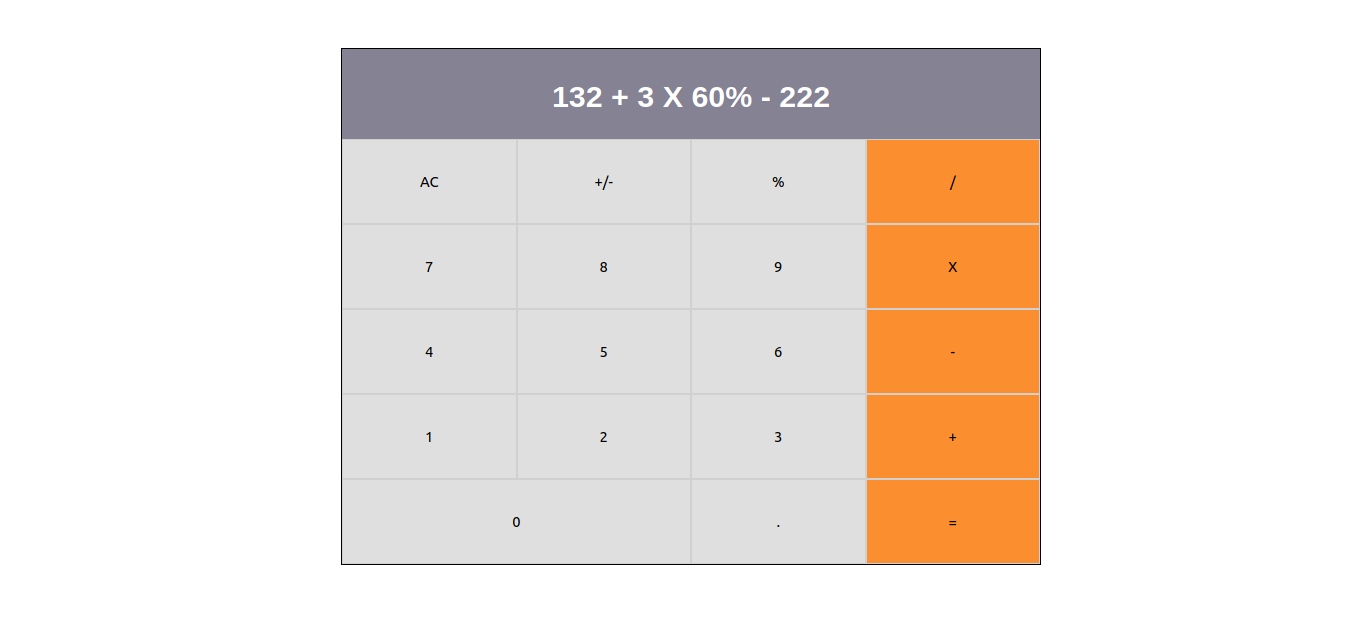
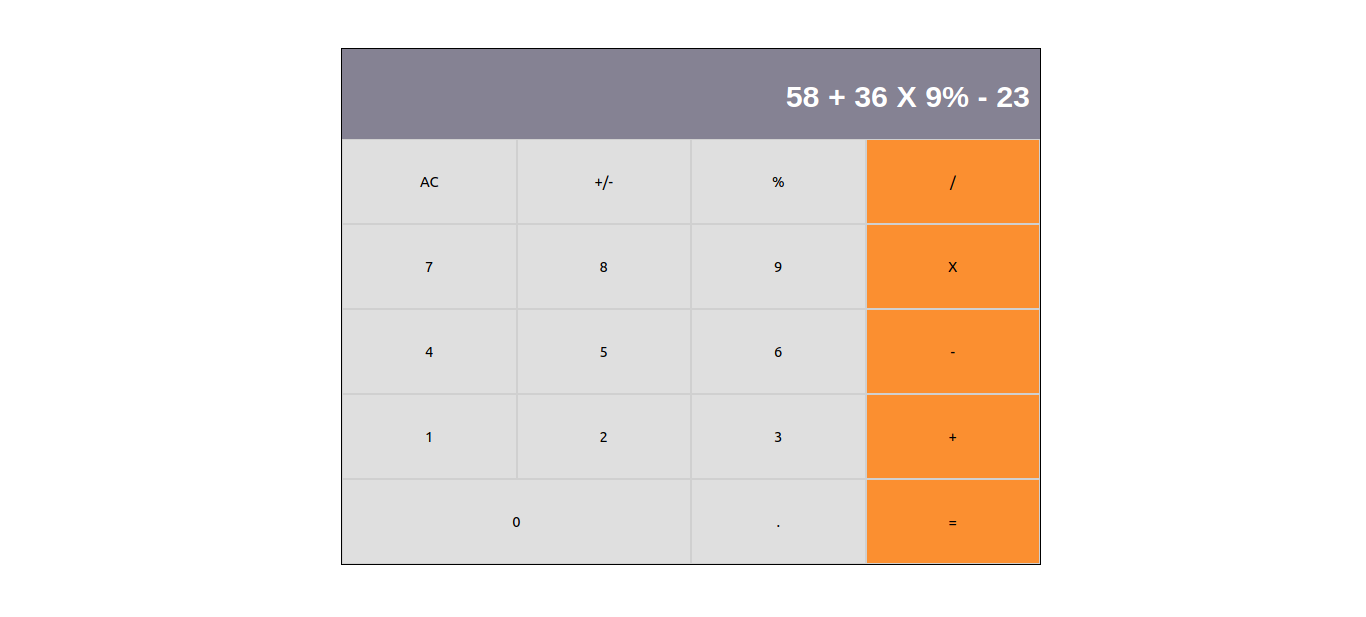
Readme update

Changed region(s): [[0.3997, 0.1232, 0.7687, 0.1848]]

diff --git a/src/styleheets/style.css b/src/styleheets/style.css
@@ -23,7 +23,7 @@ body {
   font-weight: bold;
   font-size: 1.9rem;
   padding: 10px;
-  text-align: center;
+  text-align: right;
   line-height: 75px;
 }
 
